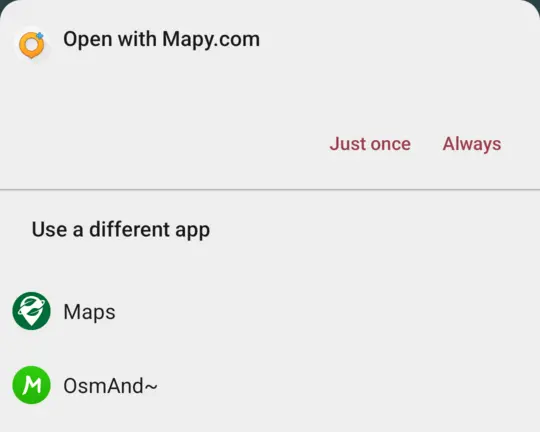
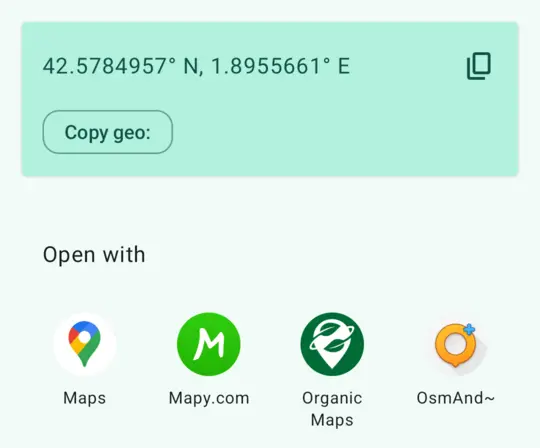
ScreenshotOpen: update for custom share sheet

diff --git a/app/src/main/java/page/ooooo/geoshare/ScreenshotOpen.kt b/app/src/main/java/page/ooooo/geoshare/ScreenshotOpen.kt
@@ -2,6 +2,7 @@ package page.ooooo.geoshare
 
 import android.content.res.Configuration
 import androidx.compose.foundation.background
+import androidx.compose.foundation.border
 import androidx.compose.foundation.layout.Arrangement
 import androidx.compose.foundation.layout.Column
 import androidx.compose.foundation.layout.fillMaxWidth
@@ -12,80 +13,85 @@ import androidx.compose.ui.Alignment
 import androidx.compose.ui.Modifier
 import androidx.compose.ui.platform.LocalDensity
 import androidx.compose.ui.res.stringResource
-import androidx.compose.ui.text.font.FontWeight
+import androidx.compose.ui.text.style.TextAlign
 import androidx.compose.ui.tooling.preview.Devices
 import androidx.compose.ui.tooling.preview.Preview
 import androidx.compose.ui.unit.IntSize
+import androidx.compose.ui.unit.dp
+import page.ooooo.geoshare.lib.Position
 import page.ooooo.geoshare.ui.theme.AppTheme
-import page.ooooo.geoshare.ui.theme.ScreenshotTheme
 
 @Composable
 fun ScreenshotOpen() {
     val appName = stringResource(R.string.app_name)
     val density = LocalDensity.current
-    val mapApps = listOf("OsmAnd~", "Organic Maps", "Mapy")
     Screenshot(
         R.drawable.geo_share_open,
         stringResource(R.string.intro_how_to_share_app_content_description, appName),
-        IntSize(1080, 864),
+        IntSize(1080, 896),
     ) { scale ->
         ScreenshotRow(
             scale,
             1080,
-            x = 126,
-            y = 55,
+            x = 86,
+            y = 100,
         ) {
             ScreenshotText(
-                stringResource(R.string.intro_how_to_share_app_screenshot_title, mapApps[0]),
+                Position("42.5784957", "1.8955661").toNorthSouthWestEastDecCoordsString(),
                 scale,
-                fontWeight = FontWeight.Medium,
-                style = ScreenshotTheme.typography.textLarge,
+                color = MaterialTheme.colorScheme.onSecondaryContainer,
+                style = MaterialTheme.typography.bodyLarge,
             )
         }
         ScreenshotRow(
             scale,
             1080,
-            x = 78,
-            y = 265,
-            horizontalArrangement = Arrangement.End,
+            x = 86,
+            y = 220,
         ) {
             ScreenshotText(
-                stringResource(R.string.intro_how_to_share_app_screenshot_once),
+                stringResource(R.string.conversion_succeeded_copy_geo),
                 scale,
-                Modifier.padding(end = with(density) { 66.toDp() * scale }),
-                fontWeight = FontWeight.Medium,
-            )
-            ScreenshotText(
-                stringResource(R.string.intro_how_to_share_app_screenshot_always),
-                scale,
-                fontWeight = FontWeight.Medium,
+                Modifier
+                    .border(
+                        1.dp,
+                        MaterialTheme.colorScheme.onSecondaryContainer.copy(alpha = 0.5f),
+                        MaterialTheme.shapes.large,
+                    )
+                    .padding(
+                        horizontal = with(density) { 44.toDp() * scale },
+                        vertical = with(density) { 17.toDp() * scale },
+                    ),
+                color = MaterialTheme.colorScheme.onSecondaryContainer,
+                style = MaterialTheme.typography.bodyMedium,
             )
         }
         ScreenshotRow(
             scale,
             1080,
-            x = 62,
-            y = 434,
+            x = 84,
+            y = 478,
         ) {
             ScreenshotText(
-                stringResource(R.string.intro_how_to_share_app_screenshot_different),
+                stringResource(R.string.conversion_succeeded_apps_headline),
                 scale,
-                fontWeight = FontWeight.Medium,
-                style = ScreenshotTheme.typography.textLarge,
+                style = MaterialTheme.typography.bodyLarge,
             )
         }
-        ScreenshotColumn(
+        ScreenshotRow(
             scale,
             1080,
-            x = 126,
-            y = 600,
-            verticalSpacing = 98,
+            x = 80,
+            y = 774,
+            horizontalArrangement = Arrangement.spacedBy(with(density) { 70.toDp() * scale }),
         ) {
-            for (text in mapApps.drop(1)) {
+            for (text in listOf("Maps", "Mapy.com", "Organic Maps", "OsmAnd~")) {
                 ScreenshotText(
                     text,
                     scale,
-                    style = ScreenshotTheme.typography.textLarge,
+                    Modifier.weight(1f),
+                    textAlign = TextAlign.Center,
+                    style = MaterialTheme.typography.bodySmall,
                 )
             }
         }

diff --git a/app/src/main/java/page/ooooo/geoshare/Screenshot.kt b/app/src/main/java/page/ooooo/geoshare/Screenshot.kt
@@ -15,6 +15,7 @@ import androidx.compose.ui.platform.LocalDensity
 import androidx.compose.ui.res.painterResource
 import androidx.compose.ui.text.TextStyle
 import androidx.compose.ui.text.font.FontWeight
+import androidx.compose.ui.text.style.TextAlign
 import androidx.compose.ui.unit.IntOffset
 import androidx.compose.ui.unit.IntSize
 import page.ooooo.geoshare.ui.theme.ScreenshotTheme
@@ -89,6 +90,7 @@ fun ScreenshotText(
     modifier: Modifier = Modifier,
     color: Color = ScreenshotTheme.colors.textColor,
     fontWeight: FontWeight = FontWeight.Normal,
+    textAlign: TextAlign? = null,
     style: TextStyle = ScreenshotTheme.typography.textMedium,
 ) {
     with(LocalDensity.current) {
@@ -97,6 +99,7 @@ fun ScreenshotText(
             modifier,
             color = color,
             fontWeight = fontWeight,
+            textAlign = textAlign,
             style = style.copy(
                 fontSize = style.fontSize * 2.75 / this.density * scale,
                 lineHeight = style.lineHeight * 2.75 / this.density * scale,
